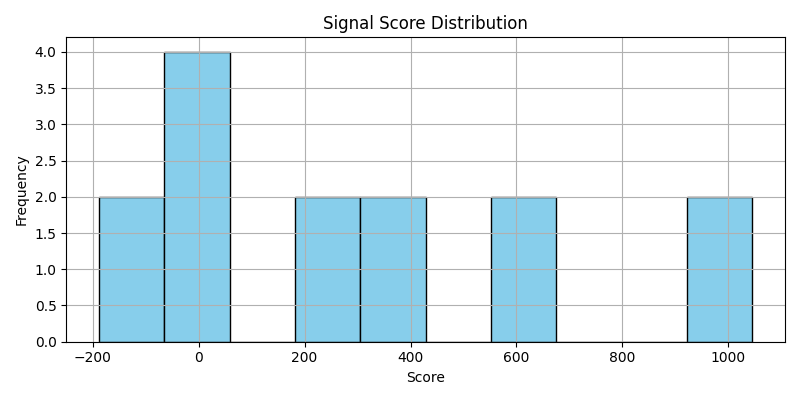
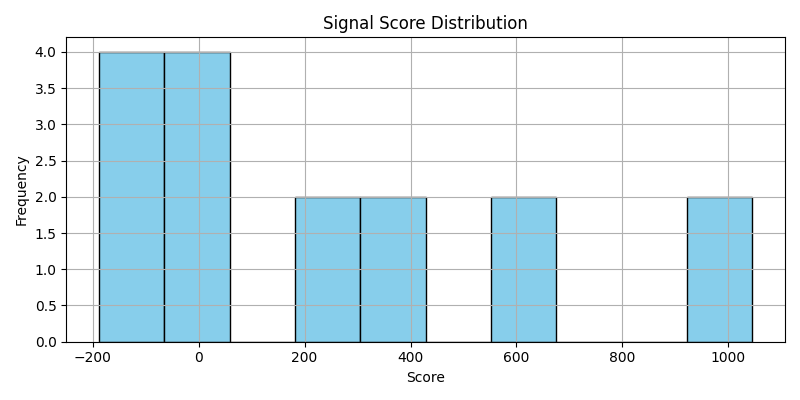
📈 Auto-report update: 17145233531

Changed region(s): [[0.125, 0.12, 0.2188, 0.51]]

diff --git a/report/fno_morning_report_2025-08-22.md b/report/fno_morning_report_2025-08-22.md
@@ -1,0 +1,44 @@
+# 📊 FnO Tracker Report – 2025-08-22
+- 🌪 India VIX: `0`
+- 🌐 Dow: Change `Ticker
+^DJI   -152.81
+dtype: float64` (Ticker
+^DJI   -0.34
+dtype: float64%)
+- 🌐 Nasdaq: Change `Ticker
+^IXIC   -72.55
+dtype: float64` (Ticker
+^IXIC   -0.34
+dtype: float64%)
+- 🌐 S&P 500: Change `Ticker
+^GSPC   -25.61
+dtype: float64` (Ticker
+^GSPC   -0.4
+dtype: float64%)
+- 🌐 SGX Nifty: Change `Ticker
+^NSEI    33.2
+dtype: float64` (Ticker
+^NSEI    0.13
+dtype: float64%)
+## 📘 BANKNIFTY (Morning Mode)
+- 🔄 PCR: `0.87` → `Bullish`
+- 🔢 Top Strike: `56000`
+- 📆 Expiry: `28-Aug-2025`
+- 🎫 Symbol: `OPTIDXBANKNIFTY28-08-2025CE56000.00`
+- 💰 Entry: ₹228.55
+- 🎯 Target: ₹342.83
+- ⛔ Stop-Loss: ₹159.98
+- 🚀 Volume Surge: `False`
+- 🧮 Signal Score: `-157.77000000000004`
+### Trade Signal: ❌ Weak Signal ⇒ `Call` Option
+## 📘 NIFTY (Morning Mode)
+- 🔄 PCR: `1.02` → `Neutral`
+- 🔢 Top Strike: `25100`
+- 📆 Expiry: `28-Aug-2025`
+- 🎫 Symbol: `OPTIDXNIFTY28-08-2025PE25100.00`
+- 💰 Entry: ₹114.0
+- 🎯 Target: ₹171.0
+- ⛔ Stop-Loss: ₹79.8
+- 🚀 Volume Surge: `False`
+- 🧮 Signal Score: `-167.77000000000004`
+### Trade Signal: ❌ Weak Signal ⇒ `Put` Option
